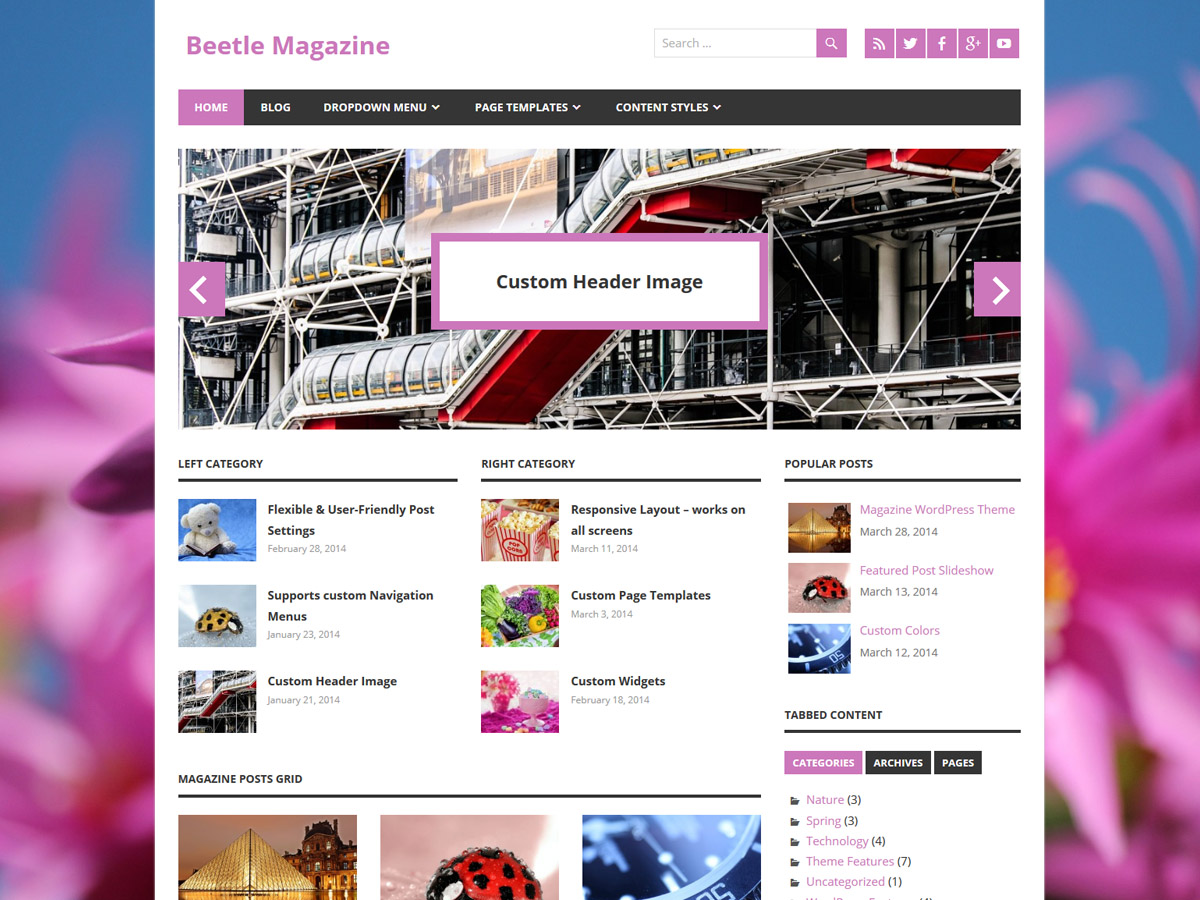
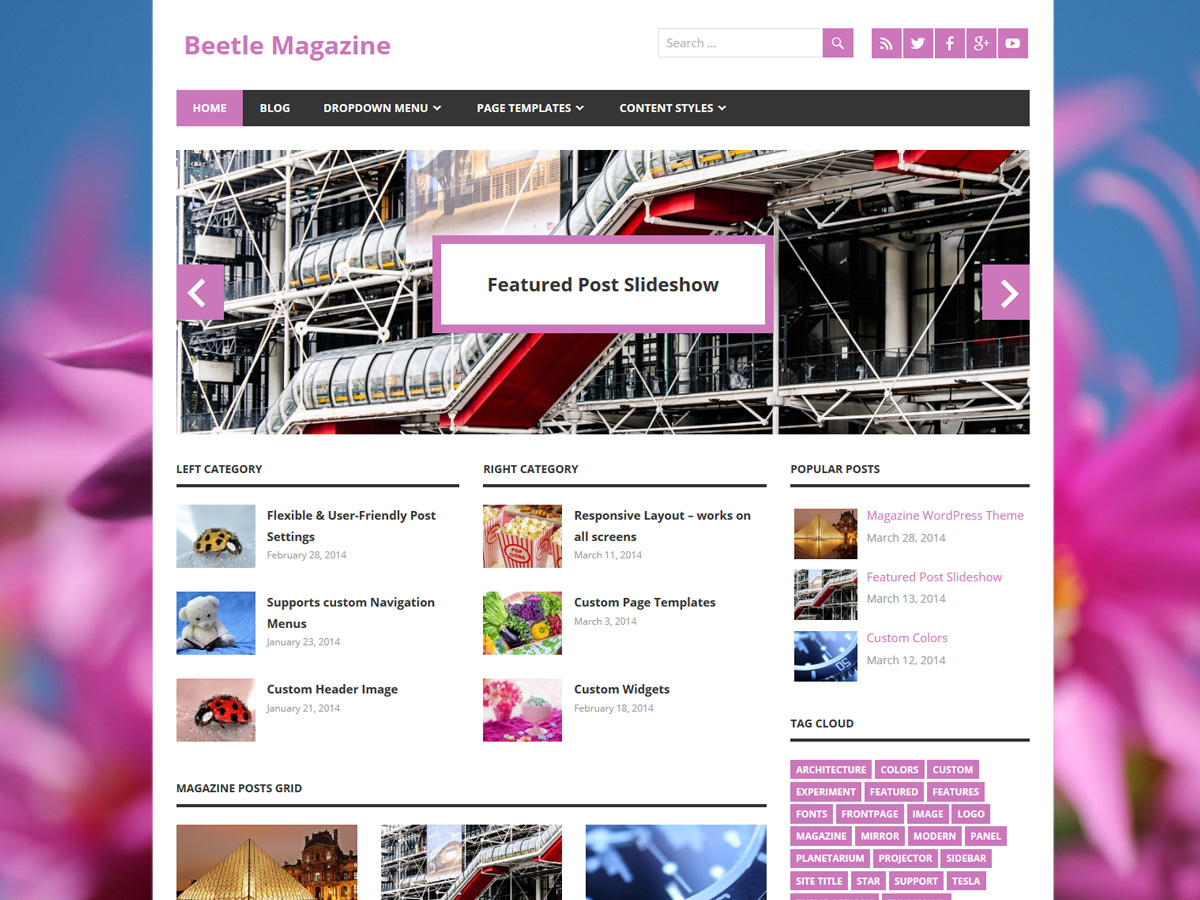
last adjustments for release

diff --git a/css/themezee-widget-bundle.css b/css/themezee-widget-bundle.css
@@ -59,29 +59,8 @@
 	height: auto;
 }
 
-.tzwb-recent-posts .tzwb-posts-list li:before {
-	display: inline-block;
-	-webkit-font-smoothing: antialiased;
-	font: normal 16px 'Genericons';
-	vertical-align: middle;
-	color: #555;
-	margin: 0 0.2em 0 0;
-	content: '\f303';
-}
-
-.tzwb-recent-posts .tzwb-posts-list li.tzwb-has-thumbnail:before {
-	display: none;
-}
-
 .tzwb-posts-list .tzwb-entry-meta {
 	margin: 0.2em 0 0.6em;
-	color: #777;
-	font-size: 14px;
-	font-size: 0.875rem;
-}
-
-.tzwb-posts-list .tzwb-entry-meta span {
-	margin-right: 0.4em;
 }
 
 /*--------------------------------------------------------------
@@ -98,27 +77,13 @@
 	margin: 0.3em 0.8em 0.6em 0;
 }
 
-.tzwb-recent-comments .tzwb-comments-list li:before {
-	display: inline-block;
-	-webkit-font-smoothing: antialiased;
-	font: normal 16px 'Genericons';
-	vertical-align: middle;
-	color: #555;
-	margin: 0 0.2em 0 0;
-	content: '\f300';
-}
-
-.tzwb-recent-comments .tzwb-comments-list li.tzwb-has-avatar:before  {
-	display: none;
-}
-
 .tzwb-comments-list .tzwb-comment-content {
 	font-style: italic;
 }
 
 .tzwb-comments-list .tzwb-comment-date {
-	margin: 0.2em 0;
-	color: #777;
+	margin: 0.2em 0 0.6em;
+	color: #999;
 	font-size: 14px;
 	font-size: 0.875rem;
 }
@@ -152,7 +117,6 @@
 	display: block;
 	margin: 0 0.3em 0.3em 0;
 	padding: 0.3em 0.8em;
-	font-family: 'Open Sans', Tahoma, Arial;
 	font-size: 13px;
 	font-size: 0.8125rem;
 	font-weight: bold;
@@ -207,124 +171,7 @@
 }
 
 .tzwb-tabbed-content .tzwb-tabcontent ul li .tzwb-entry-meta {
-	margin: 0.2em 0;
-	color: #777;
-	font-size: 14px;
-	font-size: 0.875rem;
-}
-
-/* Archive & Category Tab */
-.tzwb-tabbed-content .tzwb-tabcontent .tzwb-tabcontent-archives,
-.tzwb-tabbed-content .tzwb-tabcontent .tzwb-tabcontent-categories {
-	list-style: none;
-}
-
-.tzwb-tabbed-content .tzwb-tabcontent .tzwb-tabcontent-archives li a:before,
-.tzwb-tabbed-content .tzwb-tabcontent .tzwb-tabcontent-categories li a:before {
-	display: inline-block;
-	-webkit-font-smoothing: antialiased;
-	font: normal 18px 'Genericons';
-	vertical-align: middle;
-	color: #555;
-	margin: 0 0.3em 0 0;
-}
-
-.tzwb-tabbed-content .tzwb-tabcontent .tzwb-tabcontent-archives li a:before {
-	content: '\f307';
-}
-
-.tzwb-tabbed-content .tzwb-tabcontent .tzwb-tabcontent-categories li a:before {
-	content: '\f301';
-}
-
-/* Recent Posts & Comments Tab */
-.tzwb-tabbed-content .tzwb-tabcontent .tzwb-posts-list,
-.tzwb-tabbed-content .tzwb-tabcontent .tzwb-comments-list {
-	list-style: none;
-}
-
-.tzwb-tabbed-content .tzwb-tabcontent .tzwb-posts-list li:before, 
-.tzwb-tabbed-content .tzwb-tabcontent .tzwb-comments-list li:before {
-	display: inline-block;
-	-webkit-font-smoothing: antialiased;
-	font: normal 16px 'Genericons';
-	vertical-align: middle;
-	color: #555;
-	margin: 0 0.2em 0 0;
-}
-
-.tzwb-tabbed-content .tzwb-tabcontent .tzwb-posts-list li:before {
-	content: '\f303';
-}
-
-.tzwb-tabbed-content .tzwb-tabcontent .tzwb-comments-list li:before {
-	content: '\f300';
-}
-
-.tzwb-tabbed-content .tzwb-tabcontent .tzwb-posts-list li.tzwb-has-thumbnail:before,
-.tzwb-tabbed-content .tzwb-tabcontent .tzwb-comments-list li.tzwb-has-avatar:before  {
-	display: none;
-}
-
-/* Pages Tab */
-.tzwb-tabbed-content .tzwb-tabcontent .tzwb-tabcontent-pages,
-.tzwb-tabbed-content .tzwb-tabcontent .tzwb-tabcontent-pages ul {
-	list-style: none;
-}
-
-.tzwb-tabbed-content .tzwb-tabcontent .tzwb-tabcontent-pages li a:before {
-	display: inline-block;
-	-webkit-font-smoothing: antialiased;
-	font: normal 18px 'Genericons';
-	vertical-align: middle;
-	color: #555;
-	margin: 0 0.1em 0 0;
-	content: '\f432';
-	-webkit-transform:rotate(90deg);
-	-moz-transform:rotate(90deg);
-	-o-transform:rotate(90deg);
-	-ms-transform:rotate(90deg);
-}
-
-/* Tagcloud Tab */
-.tzwb-tabcontent-tagcloud {
-	font-size: 14px;
-	font-size: 0.875rem;
-}
-
-.tzwb-tabcontent-tagcloud:before,
-.tzwb-tabcontent-tagcloud:after {
-	content: "";
-	display: table;
-}
-
-.tzwb-tabcontent-tagcloud:after {
-	clear: both;
-}
-
-.tzwb-tabcontent-tagcloud a {
-	float: left;
-	display: inline-block;
-	margin: 0 2px 2px 0;
-	padding: 0.3em 0.6em;
-	text-decoration: none;
-	font-size: 1.0em !important;
-	border: 1px solid #cc77bb;
-}
-
-.tzwb-tabcontent-tagcloud a:link, 
-.tzwb-tabcontent-tagcloud a:visited {
-	-webkit-transition: all 0.4s ease;
-	-moz-transition: all 0.4s ease;
-	-ms-transition: all 0.4s ease;
-	-o-transition: all 0.4s ease;
-	transition: all 0.4s ease;
-}
-
-.tzwb-tabcontent-tagcloud a:hover, 
-.tzwb-tabcontent-tagcloud a:active {
-	color: #fff;
-	background-color: #cc77bb;
+	margin: 0.2em 0 0.6em;
 }
 
 /*--------------------------------------------------------------

diff --git a/style.css b/style.css
@@ -4,7 +4,7 @@ Theme URI: https://themezee.com/themes/beetle/
 Author: ThemeZee
 Author URI: https://themezee.com
 Description: Beetle is a fast & elegant Lifestyle Magazine WordPress theme. It comes with a clean typography, subtle colors and works great with strong pictures. Beetle makes use of the Customizer and a few widget areas which allow you to easily set up your online magazine in just a few minutes.
-Version: 1.0
+Version: 1.0.1
 License: GNU General Public License v2 or later
 License URI: http://www.gnu.org/licenses/gpl-2.0.html
 Text Domain: beetle
@@ -444,7 +444,7 @@ a:visited {
 a:hover,
 a:focus,
 a:active {
-	color: #444;
+	color: #353535;
 }
 
 a:focus {
@@ -820,7 +820,7 @@ textarea {
 
 .main-navigation-menu ul .menu-item-has-children > a:after {
 	display: inline-block;
-	margin: 0.2em 0 0 0.2em;
+	margin: 0.4em 0 0 0.2em;
 	font-size: 14px;
 	line-height: 1;
 	font-family: 'Genericons';
@@ -1030,7 +1030,6 @@ textarea {
 	font-size: 16px;
 	font-size: 1rem;
 	border: none;
-	background: #cc77bb;
 	padding: 0.4em 0.6em;
 	cursor: pointer;
 }
@@ -1049,10 +1048,6 @@ textarea {
 	vertical-align: middle;
 	color: #fff;
 	content: '\f400';
-}
-
-.search-form .search-submit:hover {
-	background: #353535;
 }
 
 
@@ -1107,6 +1102,11 @@ textarea {
 .widget-magazine-posts .medium-post .entry-title {
 	font-size: 16px;
 	font-size: 1rem;
+}
+
+.widget-magazine-posts .medium-post .entry-content {
+	font-size: 15px;
+	font-size: 0.9375rem;
 }
 
 .widget-magazine-posts .small-post {
@@ -1225,7 +1225,7 @@ textarea {
 }
 
 .entry-title a:hover, 
-.entry-title a:active{
+.entry-title a:active {
 	color: #cc77bb;
 }
 
@@ -1362,6 +1362,7 @@ textarea {
 	text-decoration: none;
 	color: #fff;
 	background: #cc77bb;
+	border: none;
 	font-size: 12px !important;
 	font-size: 0.75rem !important;
 	font-weight: bold;
@@ -1411,26 +1412,26 @@ textarea {
 /* Theme Pagination */
 .post-pagination {
 	display: block;
-	border-top: 2px solid #353535;
 	margin: 0 0 2em;
 }
+
 .post-pagination a,
 .post-pagination .current {
 	display: inline-block;
 	margin: 0;
-	padding: 0.5em 0.9em;
+	padding: 0.5em 1em;
     text-align: center;
 	text-decoration: none;
-	font-family: 'Open Sans', Tahoma, Arial;
-	font-size: 13px;
-	font-size: 0.8125rem;
+	font-size: 14px;
+	font-size: 0.875rem;
 	font-weight: bold;
-	color: #cc77bb;
-	text-transform: uppercase;
+	color: #fff;
+	background: #353535;
 }
 
 .post-pagination a:link, 
 .post-pagination a:visited {
+	color: #fff;
 	-webkit-transition: all 0.2s ease;
 	-moz-transition: all 0.2s ease;
 	-ms-transition: all 0.2s ease;
@@ -1440,7 +1441,7 @@ textarea {
 
 .post-pagination a:hover,
 .post-pagination .current {
-	color: #353535;
+	background: #cc77bb;
 }
 
 /* Infinite Scroll Pagination */

diff --git a/css/flexslider.css b/css/flexslider.css
@@ -214,7 +214,7 @@ html[xmlns] .zeeflexslider .zeeslides {
 	
 	.post-slider .zeeslide .slide-post {
 		width: 60%;
-		border: 0.5em solid #cc77bb;
+		border-width: 0.5em;
 		left: 20%;
 	}
 

diff --git a/functions.php b/functions.php
@@ -158,7 +158,7 @@ add_action( 'wp_enqueue_scripts', 'beetle_scripts' );
 function beetle_google_fonts_url() {
     
 	// Set default Fonts
-	$font_families = array('Open Sans:400,400italic,700,700italic', 'Open Sans:400,400italic,600,700,700italic');
+	$font_families = array( 'Open Sans:400,400italic,700,700italic' );
 
 	// Build Fonts URL
 	$query_args = array(

diff --git a/README.md b/README.md
@@ -133,6 +133,10 @@ F) Licenses of bundled resources
 	Image 9: https://pixabay.com/en/clock-time-hour-minutes-watches-782536/
 	License: Distributed under the terms of the CC0 License (https://creativecommons.org/publicdomain/zero/1.0/)
 	Copyright: 2015 claudio losa (https://pixabay.com/en/users/closa-726076/)
+	
+	Background Image: https://pixabay.com/en/christmas-cactus-schlumbergera-103118/
+	License: Distributed under the terms of the CC0 License (https://creativecommons.org/publicdomain/zero/1.0/)
+	Copyright: 2013 nightowl (https://pixabay.com/en/users/nightowl-29/)
 
 ===================================
 Enjoy!
